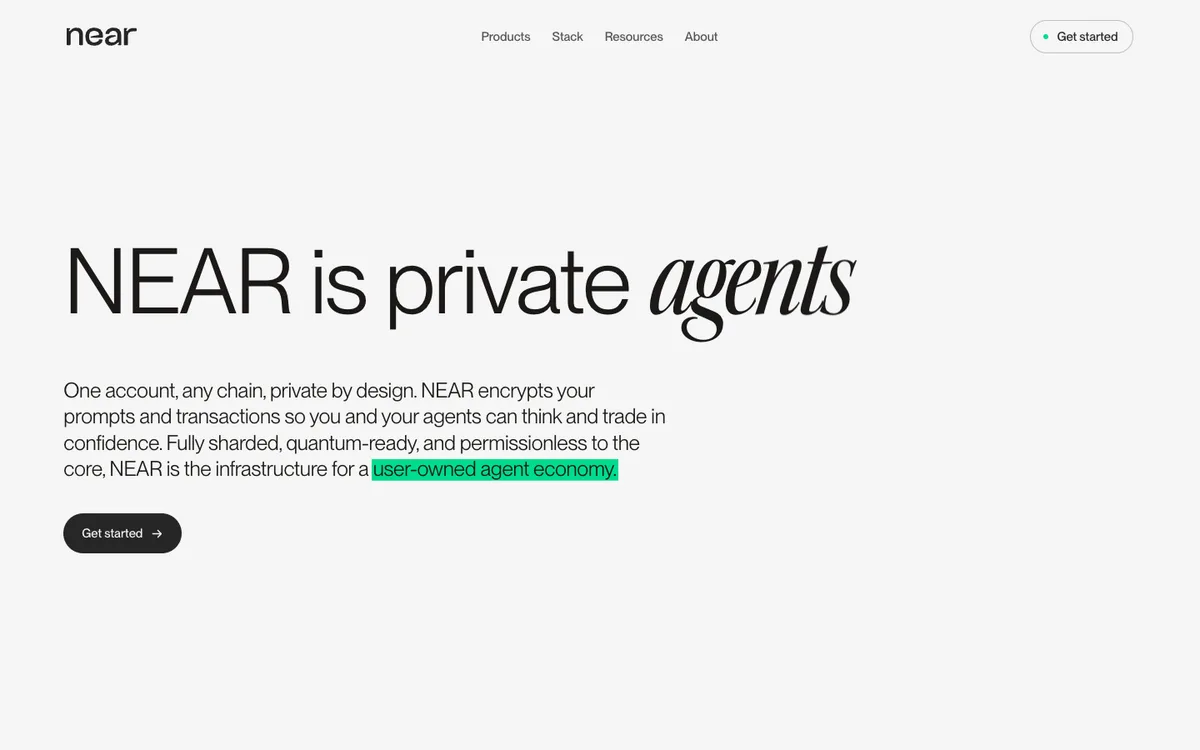
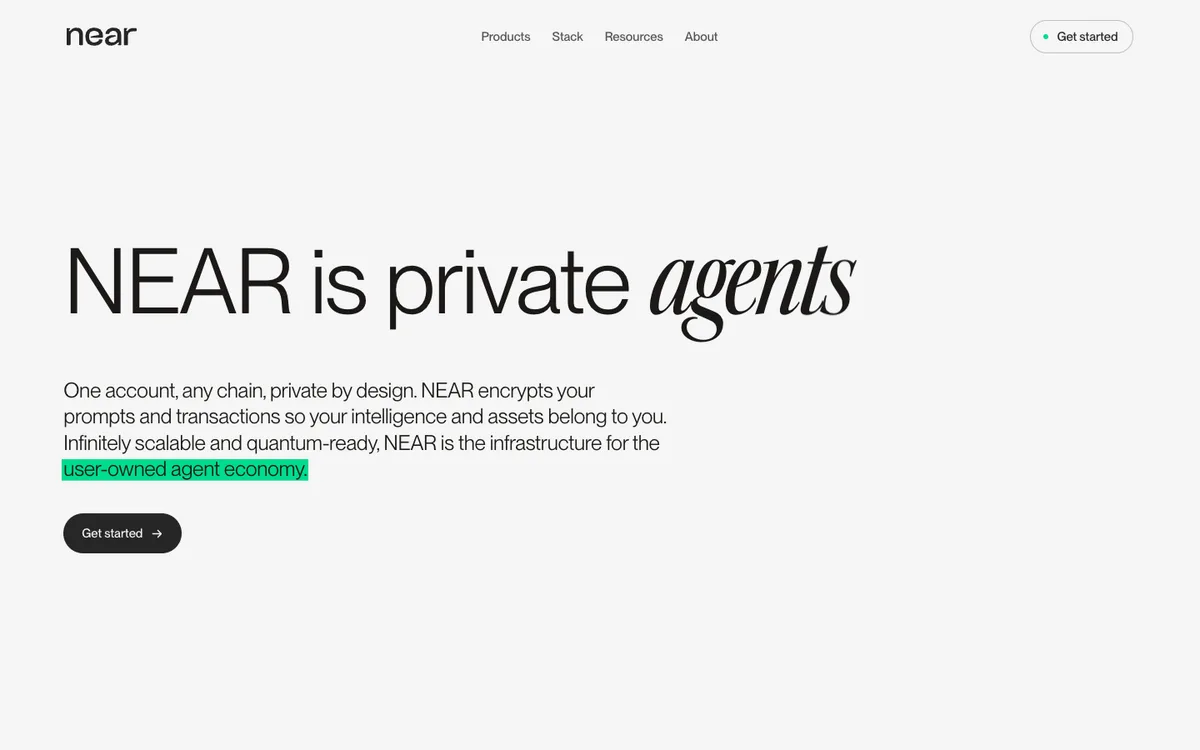
Home v11 is the homepage: the new hero and rail copy, the Stack's hover cards without facts (D248-D253)
- v11 = v10's "Stack second" plus the new copy, behind V7Page's v11 prop; v8-v10 are unchanged and v10 moves to /extra.
- Hero paragraph: "...so your intelligence and assets belong to you. Infinitely scalable and quantum-ready, NEAR is the infrastructure for the user-owned agent economy."
- Rail: "infrastructure" for "stack"; the problem line "exploit your most sensitive data, expose your assets, and capture the value you create"; the answer "NEAR's infrastructure works for you, from protecting your prompts to keeping your transactions confidential", "works for you" in green, its type capped at 54 px on wide screens.
- The NEAR Stack's hover cards show only the title and green line on v11.

Changed region(s): [[0.0308, 0.5213, 0.555, 0.644]]

diff --git a/src/components/v4/Rail.tsx b/src/components/v4/Rail.tsx
@@ -13,13 +13,22 @@ import "./v4.css";
 /** words: "lines" (home v6, with beats="split") moves the type line by line, not word by word, and brings line 3 in after a beat (rail/layer.ts LINES) */
 /** identity: "sign" (home v7, D189) draws "Own your identity." as the signed account (rail/vig2/sign.ts) in place of the key (rail/layer.ts ownKey) */
 /** type: "even" (home v6) sets the thesis, the problem and the answer (all the type above the line) in one size (v6/rail-v6.css) */
-export function RailV4({ exit, steps, beats, back, near, square, type, words, identity }: { exit?: "floor" | "frame" | "seam" | "ruler" | "drop" | "wipe" | "none"; steps?: "tiles" | "line"; beats?: "split"; back?: "ridges"; near?: "out"; square?: "early"; type?: "even"; words?: "lines"; identity?: "sign" }) {
+/** copy "v11" (home v11, D251): "infrastructure" for "stack" (D248), the problem's exploit / expose / capture (D250), and the answer "NEAR’s infrastructure works for you, …" (D252) */
+export function RailV4({ exit, steps, beats, back, near, square, type, words, identity, copy }: { exit?: "floor" | "frame" | "seam" | "ruler" | "drop" | "wipe" | "none"; steps?: "tiles" | "line"; beats?: "split"; back?: "ridges"; near?: "out"; square?: "early"; type?: "even"; words?: "lines"; identity?: "sign"; copy?: "v11" }) {
+  const v11 = copy === "v11";
+  const what = v11 ? "infrastructure" : "stack";
   return (
-    <section className="layer layer--v4" id="layer" aria-labelledby="ly-h" data-exit={exit} data-line="ink" data-steps={steps} data-beats={beats} data-back={back} data-near={near} data-square={square} data-type={type} data-words={words} data-identity={identity}>
+    <section className="layer layer--v4" id="layer" aria-labelledby="ly-h" data-exit={exit} data-line="ink" data-steps={steps} data-beats={beats} data-back={back} data-near={near} data-square={square} data-type={type} data-words={words} data-identity={identity} data-copy={copy}>
       <div className="rail__static">
         <h2 className="rail__h" id="ly-h"><span className="rail__s">AI is the frontend.</span> <span className="rail__s">Blockchain is the backend.</span> <span className="rail__s">NEAR is the full stack.</span></h2>
-        <p className="rail__problem">Whoever runs the stack beneath your agents can read your most sensitive data, watch every move you make, and keep the value you create.</p>
-        <p className="rail__answer">On NEAR, that stack is <span className="rail__mark">yours</span>, <span className="rail__next">from inference to settlement.</span></p>
+        <p className="rail__problem">Whoever runs the {what} beneath your agents can {v11 ? "exploit your most sensitive data, expose your assets, and capture the value you create." : "read your most sensitive data, watch every move you make, and keep the value you create."}</p>
+        {v11 ? (
+          /* v11 (D252): the answer's NEAR leads it; layer.ts reads "" before NEAR, "’s infrastructure " after it, the mark ("works for you"), then the next lines; the stage keeps the "\n" (white-space: pre), so
+              the long close runs on two lines of its own and fits the stage's width */
+          <p className="rail__answer">NEAR’s infrastructure <span className="rail__mark">works for you</span>, <span className="rail__next">from protecting your prompts{"\n"}to keeping your transactions confidential.</span></p>
+        ) : (
+          <p className="rail__answer">On NEAR, that stack is <span className="rail__mark">yours</span>, <span className="rail__next">from inference to settlement.</span></p>
+        )}
         <ol className="rail__list" role="list">
           <li data-own="data"><div className="rail__art va" data-art="data" aria-hidden="true"></div><h3>Own your <span className="acc">data.</span></h3><p>Your trades and prompts stay confidential, hidden from bots, competitors, and the public chain.</p></li>
           <li data-own="assets"><div className="rail__art va" data-art="assets" aria-hidden="true"></div><h3>Own your <span className="acc">assets.</span></h3><p>Crypto and tokenized assets across every chain you use, in one account only you control.</p></li>

diff --git a/src/components/v7/V7Page.tsx b/src/components/v7/V7Page.tsx
@@ -57,8 +57,9 @@ const ORIGIN_RATIO = "4/3" as const;   /* v5's Origin photo (revenue option A's 
  *  styles (./v7.css). Without it: home v7 as on main;
  *  privHero: with `top`, another hero in place of the type-only one (the cycling hero studies, D224; local pages under /home-v7/heroes/cycle);
  *  stackFirst (home v10, D239): the Stack right after the hero, then Real Usage (the revenue band, out of the lower page), then the rail; the rail ends with
- *  no tide (exit "none") and the Stack comes in on its own (no tide to rise under) */
-export function V7Page({ tx, st, hero, voices, origin, close, top, privHero, stackFirst = false }: { tx?: TxKey; st?: StKey; hero?: HeroAlt; voices?: string; origin?: string; close?: string; top?: "private" | "privacy"; privHero?: React.ReactNode; stackFirst?: boolean } = {}) {
+ *  no tide (exit "none") and the Stack comes in on its own (no tide to rise under);
+ *  v11 (home v11, D251): with top "private", the new copy: the hero's paragraph (D249) and the rail's "infrastructure" lines (D248, D250) */
+export function V7Page({ tx, st, hero, voices, origin, close, top, privHero, stackFirst = false, v11 = false }: { tx?: TxKey; st?: StKey; hero?: HeroAlt; voices?: string; origin?: string; close?: string; top?: "private" | "privacy"; privHero?: React.ReactNode; stackFirst?: boolean; v11?: boolean } = {}) {
   const priv = !!top;
   const photos = { ...(priv ? PHOTOS : {}), ...(voices && { ridges: voices }), ...(origin && { origin }), ...(close && { meadow: close }) };
   const deeper = priv
@@ -68,10 +69,10 @@ export function V7Page({ tx, st, hero, voices, origin, close, top, privHero, sta
     <>
       {/* as v5: no globe, and v5's style scope; v8 and v9 (top) also html[data-v7="priv"] */}
       <InlineScript html={`document.documentElement.setAttribute('data-gl','off');document.documentElement.setAttribute('data-home','v5')${priv ? ";document.documentElement.setAttribute('data-v7','priv')" : ""}`} />
-      <V1Page v="v3" header={<V3Header home="/" spread stay soft />} world={top ? (privHero ?? <WorldPrivate copy={top === "privacy" ? "privacy" : "cycle"} />) : <WorldV7 tx={tx} st={st} hero={hero} />}
+      <V1Page v="v3" header={<V3Header home="/" spread stay soft />} world={top ? (privHero ?? <WorldPrivate copy={top === "privacy" ? "privacy" : v11 ? "v11" : "cycle"} />) : <WorldV7 tx={tx} st={st} hero={hero} />}
         stackFirst={stackFirst} between={stackFirst ? <div className="l-page" data-scope="v7"><RevenueD flat /></div> : undefined}
-        rail={<RailV4 exit={stackFirst ? "none" : "wipe"} steps="tiles" beats="split" back="ridges" near="out" square="early" type="even" words="lines" identity={priv ? "sign" : undefined} />}
-        stack={<StackV4 still steps stick enter={stackFirst ? undefined : "tide"} icons={priv} art={<><StackArtV7 look="matte" />{!stackFirst && <StackEnterV7 />}{priv && <StackIconsV7 />}</>} />}
+        rail={<RailV4 exit={stackFirst ? "none" : "wipe"} steps="tiles" beats="split" back="ridges" near="out" square="early" type="even" words="lines" identity={priv ? "sign" : undefined} copy={v11 ? "v11" : undefined} />}
+        stack={<StackV4 still steps stick enter={stackFirst ? undefined : "tide"} icons={priv} art={<><StackArtV7 look="matte" facts={!v11} />{!stackFirst && <StackEnterV7 />}{priv && <StackIconsV7 />}</>} />}
         afterStack={<ProofDeeper content={deeper} />} footer={<V3Footer />} />
     </>
   );

diff --git a/src/components/v7/private/WorldPrivate.tsx b/src/components/v7/private/WorldPrivate.tsx
@@ -4,11 +4,12 @@
 // header's action while it shows), but has no .statement, so nothing is pinned or wiped. Styles: ./private.css.
 // copy "privacy" (branch NEAR-is-privacy-HEADLINE, D202): Lawrence's second option, one still headline, "NEAR is privacy for onchain capital and the agent
 // economy.", and his two sentences under it, in place of the cycle and the statement.
+// copy "v11" (home v11, D251): the cycle, with Lawrence's new paragraph under it (D249).
 import { Cycle } from "./Cycle";
 import "../../v1/world/world.css";
 import "./private.css";
 
-export function WorldPrivate({ copy = "cycle" }: { copy?: "cycle" | "privacy" } = {}) {
+export function WorldPrivate({ copy = "cycle" }: { copy?: "cycle" | "privacy" | "v11" } = {}) {
   return (
     <div className="pin pin--priv">
       <div className="stage" aria-hidden="true"><canvas /></div>
@@ -28,8 +29,13 @@ export function WorldPrivate({ copy = "cycle" }: { copy?: "cycle" | "privacy" } 
                 <span className="ph__l">NEAR is private</span> <Cycle />
               </h1>
               <p className="ph__p">
-                One account, any chain, private by design. NEAR encrypts your prompts and transactions so you and your agents can think and trade in
-                confidence. Fully sharded, quantum-ready, and permissionless to the core, NEAR is the infrastructure for a{" "}
+                {copy === "v11" ? (
+                  <>One account, any chain, private by design. NEAR encrypts your prompts and transactions so your intelligence and assets belong to you.
+                  Infinitely scalable and quantum-ready, NEAR is the infrastructure for the{" "}</>
+                ) : (
+                  <>One account, any chain, private by design. NEAR encrypts your prompts and transactions so you and your agents can think and trade in
+                  confidence. Fully sharded, quantum-ready, and permissionless to the core, NEAR is the infrastructure for a{" "}</>
+                )}
                 <span className="ph__mk">user-owned agent economy.</span>
               </p>
             </>

diff --git a/src/components/v7/stack/StackArtV7.tsx b/src/components/v7/stack/StackArtV7.tsx
@@ -142,8 +142,11 @@ const Ring = ({ k, only, mark }: { k: keyof typeof BOXES; only?: number[]; mark?
 /* a front box (FRONT): its original hides while the copy over the parted pillar shows, so its outline isn't drawn twice */
 const fb = (k: keyof typeof FRONT, i: number) => (FRONT[k].includes(i) ? "s7-fb" : undefined);
 
-/* look: "matte" draws the pieces lit, in three.js, over this drawing (D149: StackMatteV7); "flat", the drawing as it is */
-export function StackArtV7({ look = "flat" }: { look?: "flat" | "matte" }) {
+/* look: "matte" draws the pieces lit, in three.js, over this drawing (D149: StackMatteV7); "flat", the drawing as it is.
+   facts: false (home v11, D253) leaves the facts sentence (and its hairline) out of the hover boxes: the title and the green line only */
+export function StackArtV7({ look = "flat", facts = true }: { look?: "flat" | "matte"; facts?: boolean }) {
+  const factsRef = useRef(facts);
+  factsRef.current = facts;
   const svgRef = useRef<SVGSVGElement>(null), tipRef = useRef<HTMLDivElement>(null);
 
   useEffect(() => {
@@ -363,7 +366,7 @@ export function StackArtV7({ look = "flat" }: { look?: "flat" | "matte" }) {
         tip.dataset.key = key!; tip.dataset.kind = d.kind ?? "card";
         tip.querySelector(".s7-tip__t")!.textContent = d.title;
         const set = (sel: string, text?: string) => { const el = tip.querySelector<HTMLElement>(sel)!; el.textContent = text ?? ""; el.hidden = !text; };
-        set(".s7-tip__sub", d.sub); set(".s7-tip__body", d.body); set(".s7-tip__facts", d.facts);   /* the facts in sentences (D136) */
+        set(".s7-tip__sub", d.sub); set(".s7-tip__body", d.body); set(".s7-tip__facts", factsRef.current ? d.facts : undefined);   /* the facts in sentences (D136); none on v11 (D253) */
       }
       /* beside the pointer: to its left (D136, Lawrence; D127 had it to the right), 16 px off, centred on it; kept on the screen and under the nav pill.
          Where the left has no room (narrow screens), it goes to the right rather than over the pointer (D136 critic) */

diff --git a/src/app/(site)/extra/pages.ts b/src/app/(site)/extra/pages.ts
@@ -8,8 +8,9 @@ export const GROUPS: Group[] = [
   {
     id: "home",
     title: "Homepage",
-    note: "Homepage versions that were not chosen. The homepage (/) is home v10, Stack second (since Nov 20, 2026; v9 before it); home v7, the film hero, is at /home-v7 on /index.",
+    note: "Homepage versions that were not chosen. The homepage (/) is home v11, Stack second with the new copy (since Nov 20, 2026; v10, then v9, before it); home v7, the film hero, is at /home-v7 on /index.",
     pages: [
+      { href: "/home-v10", n: "v10", name: "Home · Stack second", note: "The homepage on Nov 20, 2026, before v11's new copy: v8's cycling hero, then the NEAR Stack and Real Usage straight after it, then the rail (\"Whoever runs the stack…\") with no tide, and the same lower page.", tags: ["Cycling hero", "Stack second", "Branch Stack-Second"], img: "/extra/home-v10.webp" },
       { href: "/home-v9", n: "v9", name: "Home · still headline", note: "The homepage until Nov 20, 2026: one type-only section, \"NEAR is privacy for onchain capital and the agent economy.\", and two sentences under it; then the rail, the Stack in lit matte and the same lower page.", tags: ["Type-only hero", "Still headline", "Branch NEAR-is-privacy-HEADLINE"], img: "/extra/home-v9.webp" },
       { href: "/home-v8", n: "v8", name: "Home · cycling word", note: "Home v9 with \"NEAR is private\" and a word that cycles (AI, money, markets… cross-chain) until it rests on \"by design\", and the intro's paragraph under it, on the same lower page. The homepage Nov 19–20, until v9 was chosen again.", tags: ["Type-only hero", "Cycling word", "Not chosen"], img: "/extra/home-v8.webp" },
     ],

diff --git a/src/app/(site)/page.tsx b/src/app/(site)/page.tsx
@@ -1,13 +1,13 @@
 import type { Metadata } from "next";
 import { og } from "@/lib/site";
 
-// The site's first page is home v10 (/home-v10, "Stack second": v8's cycling hero, then the Stack and Real Usage, then the rail; since Nov 20, 2026), the
-// same page at both addresses: whatever changes there shows here. Home v7 stays at /home-v7 (on /index); v9 (the still headline, the homepage before)
-// is at /home-v9 and v8 (the cycling word) at /home-v8, both on /extra. The index of pages is /index
-export { default } from "./home-v10/page";
+// The site's first page is home v11 (/home-v11: v10's "Stack second" with Lawrence's new copy, D251; the working version since Nov 20, 2026), the same
+// page at both addresses: whatever changes there shows here. Home v7 stays at /home-v7 (on /index); v10 (Stack second, as Abraham made it the homepage),
+// v9 (the still headline) and v8 (the cycling word) are on /extra. The index of pages is /index
+export { default } from "./home-v11/page";
 
-const TITLE = "NEAR is private, by design";   // v10's hero: "NEAR is private" + the cycling word that rests on "by design"
-const DESCRIPTION = "One account, any chain, private by design. NEAR encrypts your prompts and transactions so you and your agents can think and trade in confidence.";
+const TITLE = "NEAR is private, by design";   // v11's hero (v10's): "NEAR is private" + the cycling word that rests on "by design"
+const DESCRIPTION = "One account, any chain, private by design. NEAR encrypts your prompts and transactions so your intelligence and assets belong to you.";
 
 export const metadata: Metadata = {
   title: { absolute: TITLE },

diff --git a/src/components/v7/rail-v7.css b/src/components/v7/rail-v7.css
@@ -23,6 +23,13 @@ html[data-home="v5"] .layer[data-type="even"] :is(.rail__h, .rail__problem, .rai
   /* the square holds the centre from the start (data-square="early"): on a phone the end labels sit close enough to it, so they hang below it (D114) */
   html[data-home="v5"] .layer[data-square="early"] .rs__end { top: calc(var(--rail-y) + var(--frame) / 2 + 8px); }
 }
+/* v11's answer (D252) closes on a long line ("to keeping your transactions confidential."): on phones it wraps at the margin, instead of the type shrinking
+   for everything above the line */
+/* on wide screens its type stops at 54 px (not 62), so that line ends before the drawing beside it */
+@media (min-width: 761px) { html[data-home="v5"] .layer[data-copy="v11"][data-type="even"] { --ev: clamp(30px, calc(3.44 * var(--u)), 54px); } }
+@media (max-width: 760px) {
+  html[data-home="v5"] .layer[data-copy="v11"] .rs__ans .rs__next { white-space: pre-wrap; max-width: calc(100vw - 2 * var(--m)); }
+}
 
 /* the stations' drawings centred on the tile (D117). Each sits in its box (rail.css .rs__art, centred on the station) by its svg's viewBox (xMidYMax meet), but
    intelligence's drawing is off the middle of its viewBox: 2.7 % left (-4 - 394 of 412), from its svg geometry. The drawn width is the box's, or its height x the

diff --git a/src/app/(site)/home-v10/page.tsx b/src/app/(site)/home-v10/page.tsx
@@ -4,11 +4,11 @@ import { V7Page } from "@/components/v7/V7Page";
 export const metadata: Metadata = {
   title: "Home v10",
   description: "One account, any chain, private by design. NEAR encrypts your prompts and transactions so you and your agents can think and trade in confidence.",
-  alternates: { canonical: "/" },   // the homepage's second address (/ re-exports this page): search engines are pointed to /
+  alternates: { canonical: "/" },   // a version of the homepage not chosen
 };
 
 // Home v10 = Lawrence's branch Stack-Second (D239): home v8 with the Stack and Real Usage moved up, straight after the hero, and the rail ("AI is the
-// frontend…") after them; then the lower page as v8's. It is the homepage: / re-exports this page (since Nov 20, 2026; v9 before it).
+// frontend…") after them; then the lower page as v8's. The homepage on Nov 20, 2026 (Abraham, a12141b), until v11 took its place with the new copy (D251); listed at /extra.
 export default function HomeV10() {
   return <V7Page top="private" stackFirst />;
 }

diff --git a/src/app/(site)/index/pages.ts b/src/app/(site)/index/pages.ts
@@ -7,8 +7,8 @@ export type Final = { id: string; href: string; path?: string; name: string; not
 
 export const FINALS: Final[] = [
   {
-    id: "home", href: "/", name: "Homepage · v10",
-    note: "Home v10, \"Stack second\" (Lawrence's branch Stack-Second): \"NEAR is private\" and a word that cycles until it rests on \"by design\", then the NEAR Stack and Real Usage straight after the hero, then the rail (\"AI is the frontend…\") and the same lower page as v8 and v9.",
+    id: "home", href: "/", name: "Homepage · v11",
+    note: "Home v11, the working version: v10's \"Stack second\" with the new copy. \"NEAR is private\" and a word that cycles until it rests on \"by design\", the paragraph \"…so your intelligence and assets belong to you\", then the NEAR Stack and Real Usage, then the rail (\"Whoever runs the infrastructure…\") and the same lower page as v8 and v9.",
     tags: ["Cycling hero", "Stack second", "Lit matte Stack"], img: "/index/home.webp",
   },
   {

diff --git a/src/app/(site)/home-v11/page.tsx b/src/app/(site)/home-v11/page.tsx
@@ -1,0 +1,14 @@
+import type { Metadata } from "next";
+import { V7Page } from "@/components/v7/V7Page";
+
+export const metadata: Metadata = {
+  title: "Home v11",
+  description: "One account, any chain, private by design. NEAR encrypts your prompts and transactions so your intelligence and assets belong to you.",
+  alternates: { canonical: "/" },   // the homepage's second address (/ re-exports this page): search engines are pointed to /
+};
+
+// Home v11 (D251) = home v10 ("Stack second", D239) with Lawrence's new copy: the hero's paragraph (D249) and the rail's "infrastructure" lines (D248, D250).
+// It is the homepage and the working version (Lawrence, Nov 20, 2026: "so we keep working on v11"): / re-exports this page. v10 stays as it was, on /extra.
+export default function HomeV11() {
+  return <V7Page top="private" stackFirst v11 />;
+}

diff --git a/README.md b/README.md
@@ -10,7 +10,7 @@ The new near.org: the site's pages and the NEAR CMS (the blog's back office) in 
 
 | Address | Page | Code |
 |---|---|---|
-| `/` (and `/home-v10`) | **Homepage**: home v10, "Stack second" (since Nov 20, 2026). "NEAR is private" and the cycling word, then the Stack and Real Usage, then the rail, proof and Go deeper. Home v7 (`/home-v7`, the film hero) stays at its own address, also on `/index`; v9 (`/home-v9`, the still headline, the homepage before) and v8 (`/home-v8`, the cycling word) are on `/extra`. | `src/components/v7` (on pieces of v1–v5) |
+| `/` (and `/home-v11`) | **Homepage**: home v11, the working version: v10's "Stack second" with the new copy (since Nov 20, 2026; v10 is on `/extra`). "NEAR is private" and the cycling word, then the Stack and Real Usage, then the rail, proof and Go deeper. Home v7 (`/home-v7`, the film hero) stays at its own address, also on `/index`; v9 (`/home-v9`, the still headline, the homepage before) and v8 (`/home-v8`, the cycling word) are on `/extra`. | `src/components/v7` (on pieces of v1–v5) |
 | `/blog` | **Blog**: version F, version E (Lawrence's choice) with the CMS's 24 newest posts hard-coded (`f/posts.ts`, pulled 2026-11-20; no database needed), then the Go deeper samples so Press and Watch show, and the newest as a large editorial lead. The hard-coded posts are used only in `next dev` when the CMS can't be read (no Postgres); production reads the CMS (`src/lib/blog/local.ts`). The posts, the lead post always on screen, All / Blog / Press / Watch as large words, tag pills you can combine (the CMS's tags, with NEAR AI, NEAR Intents, near.com and NEAR Protocol first), and the homepage's ruled cards with date and tags, nine at a time. | `src/components/blog/f` |
 | `/blog/<slug>` | **Blog post**: layout B (Cover) by default; `?layout=a\|c\|d` shows A, C or D. `/post-b` is the sample article. In `next dev` with no database, the 4 newest posts open from `src/lib/blog/local-articles.ts`; any other is not found. | `src/components/v3/post` |
 | `/near-foundation` | **NEAR Foundation**: Foundation E (Living columns), with F's pillars and F's Council. | `src/components/foundation/e` (+ `f`) |
@@ -37,7 +37,7 @@ Explorations that still have their own routes are listed at `/extra`:
 
 ### What changed (November 2026)
 
-- **Homepage:** home v9 is the first page (v7 at `/home-v7`; v8 at `/home-v8`, on `/extra`). Homes v1–v6 were removed, with the code and assets only they used. `/home-v1`…`/home-v6` redirect to `/`.
+- **Homepage:** home v11 is the first page (v7 at `/home-v7`; v8, v9 and v10 on `/extra`). Homes v1–v6 were removed, with the code and assets only they used. `/home-v1`…`/home-v6` redirect to `/`.
 - **Removed pages:**
   - the blog directions A–L (J, which was `/blog` until E was chosen, is at `/blog-index-a`);
   - the 404 previews and designs B and C;
@@ -121,8 +121,8 @@ BASE=http://localhost:3000 npm run capture -- /blog public/index/blog.webp
 
 ## The homepage (home v7, v8 and v9)
 
-- **Route and owner:** the homepage is home v10: `/` re-exports `/home-v10/page.tsx` (`src/app/(site)/page.tsx`), so changes to v10 show on both. `/home-v7` (earlier), `/home-v8` and `/home-v9` (on `/extra`) are the other versions, on the same code. Lawrence owns `src/components/v7`.
-- **Home v8 and v9** (`/home-v8`, `/home-v9`; v9 is `/`): Lawrence's branches `NEAR-is-private-CYCLE` and `NEAR-is-privacy-HEADLINE`, on the same `V7Page` with `top="private"` or `top="privacy"`. `top` swaps the hero and the intro for one type-only section (`v7/private`) and turns on those branches' lower page: the signed identity in the rail, Origin above Go deeper, the black-and-white photos, the voices one at a time (`v7/voices`) and the mailboxes. Their styles sit under `html[data-v7="priv"]` in `v7.css`, so `/home-v7` stays as it was.
+- **Route and owner:** the homepage is home v11: `/` re-exports `/home-v11/page.tsx` (`src/app/(site)/page.tsx`), so changes to v11 show on both. v11 is v10 with `V7Page`'s `v11` prop, which swaps in the new copy (the hero's paragraph and the rail's lines); new homepage work goes there. `/home-v7` (earlier), `/home-v8`, `/home-v9` and `/home-v10` (on `/extra`) are the other versions, on the same code. Lawrence owns `src/components/v7`.
+- **Home v8 and v9** (`/home-v8`, `/home-v9`): Lawrence's branches `NEAR-is-private-CYCLE` and `NEAR-is-privacy-HEADLINE`, on the same `V7Page` with `top="private"` or `top="privacy"`. `top` swaps the hero and the intro for one type-only section (`v7/private`) and turns on those branches' lower page: the signed identity in the rail, Origin above Go deeper, the black-and-white photos, the voices one at a time (`v7/voices`) and the mailboxes. Their styles sit under `html[data-v7="priv"]` in `v7.css`, so `/home-v7` stays as it was.
 - **Code:** `src/components/v7` builds the page from pieces of v1–v5:
   - `V1Page` and its boot (world, rail, Stack);
   - v4's rail and Stack;
